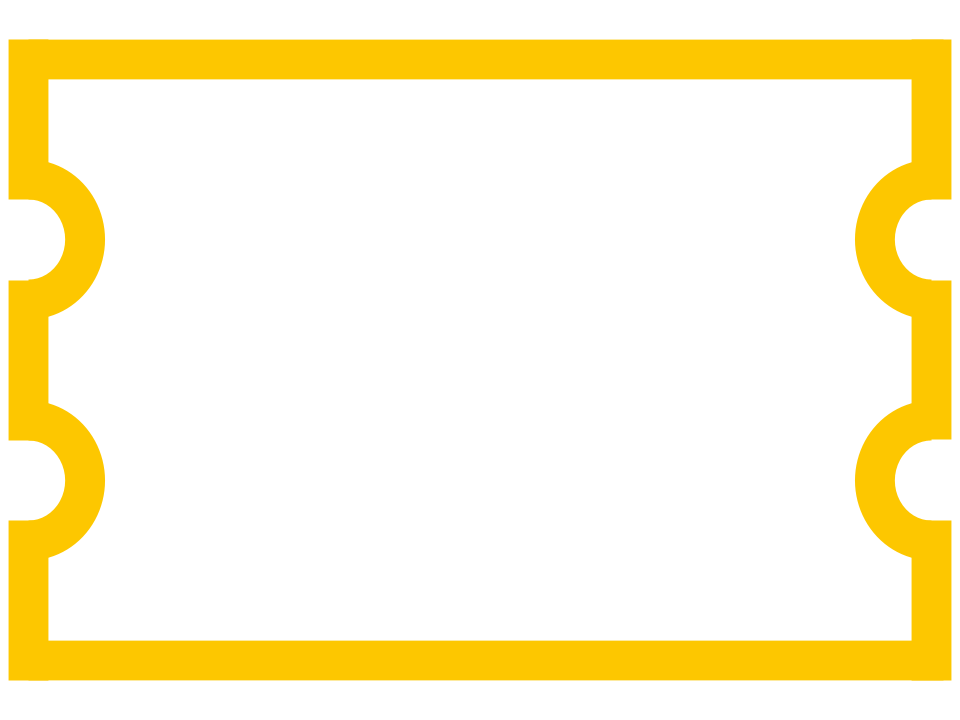
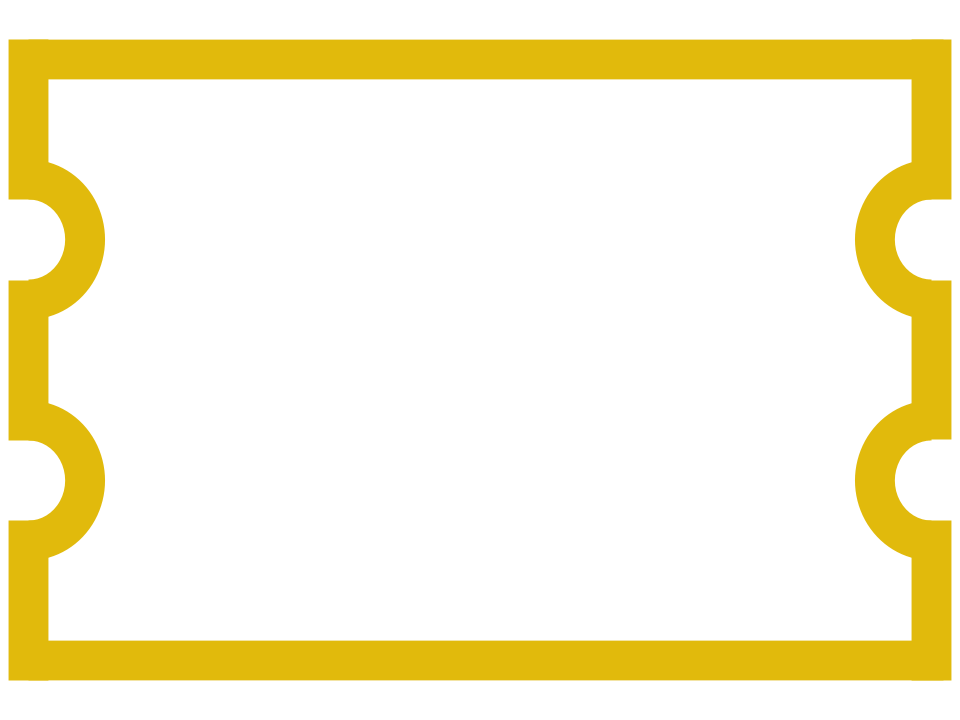
added image to front page

Changed region(s): [[0.0, 0.0306, 1.0, 0.9472]]

diff --git a/App/src/app/page.tsx b/App/src/app/page.tsx
@@ -1,41 +1,48 @@
 import Box from '@mui/material/Box';
 import Typography from '@mui/material/Typography';
 import Appbar from '../components/appbar'
+import Image from 'next/image'
 
 export default function Page() {
   return (
     <>
       <Appbar title='UCSC Grad Ticket Connector' />
-      <Box sx={{p: '20px'}}>
-        <Box sx={{border: '3px solid #e1ba0c', borderRadius: '4px', p: '10px', bgcolor: '#0b0931', width: '50%'}}>
-          <Typography variant='h2' sx={{color: '#e1ba0c', fontWeight: 'bold'}}>
-            Welcome to the UCSC Grad Ticket Connector!
-          </Typography>
+      <Box sx={{p: '20px', display: 'flex', gap: '20px'}}>
+        <Box sx={{width: '50%'}}>
+          <Box sx={{border: '3px solid #e1ba0c', borderRadius: '10px', p: '10px', bgcolor: '#0b0931'}}>
+            <Typography variant='h2' sx={{color: '#e1ba0c', fontWeight: 'bold'}}>
+              Welcome to the UCSC Grad Ticket Connector!
+            </Typography>
+          </Box>
+          <Box sx={{border: '3px solid #e1ba0c', borderRadius: '10px', p: '10px', mt: '20px', bgcolor: '#0b0931'}}>
+            <Typography variant='h5' sx={{color: '#e1ba0c', fontWeight: 'bold'}}>
+              This student built site has one simple goal: match people with extra UCSC graduation tickets with people who need extra UCSC graduation tickets.
+            </Typography>
+            <br/>
+            <Typography variant='h5' sx={{color: '#e1ba0c'}}>
+              Every year it is a struggle for students to find enough tickets for all their family and friends to come watch them at graduation.
+              This site connects people who need tickets with people who have them.
+            </Typography>
+          </Box>
+          <Box sx={{border: '3px solid #e1ba0c', borderRadius: '10px', p: '10px', mt: '20px', bgcolor: '#0b0931'}}>
+            <Typography variant='h5' sx={{color: '#e1ba0c'}}>
+              Click here to list your extra tickets!
+            </Typography>
+          </Box>
+          <Box sx={{border: '3px solid #e1ba0c', borderRadius: '10px', p: '10px', mt: '20px', bgcolor: '#0b0931'}}>
+            <Typography variant='h5' sx={{color: '#e1ba0c'}}>
+              Click here to browse, filter, and save tickets!
+            </Typography>
+          </Box>
+          <Box sx={{p: '10px'}}>
+            <Typography variant='body1' sx={{color: '#0b0931'}}>
+              Not affiliated with UCSC. Be wary of fake listings.
+            </Typography>
+          </Box>
         </Box>
-        <Box sx={{border: '3px solid #e1ba0c', borderRadius: '4px', p: '10px', mt: '20px', bgcolor: '#0b0931', width: '50%'}}>
-          <Typography variant='h5' sx={{color: '#e1ba0c', fontWeight: 'bold'}}>
-            This student built site has one simple goal: match people with extra UCSC graduation tickets with people who need extra UCSC graduation tickets.
-          </Typography>
-          <br/>
-          <Typography variant='h5' sx={{color: '#e1ba0c'}}>
-            Every year it is a struggle for students to find enough tickets for all their family and friends to come watch them at graduation.
-            This site connects people who need tickets with people who have them.            
-          </Typography>
-        </Box>
-        <Box sx={{border: '3px solid #e1ba0c', borderRadius: '4px', p: '10px', mt: '20px', bgcolor: '#0b0931', width: '50%'}}>
-          <Typography variant='h5' sx={{color: '#e1ba0c'}}>
-            Click here to list your extra tickets!
-          </Typography>
-        </Box>
-        <Box sx={{border: '3px solid #e1ba0c', borderRadius: '4px', p: '10px', mt: '20px', bgcolor: '#0b0931', width: '50%'}}>
-          <Typography variant='h5' sx={{color: '#e1ba0c'}}>
-            Click here to browse, filter, and save tickets!
-          </Typography>
-        </Box>
-        <Box sx={{p: '10px', width: '50%'}}>
-          <Typography variant='body1' sx={{color: '#0b0931'}}>
-            Not affiliated with UCSC. Be wary of fake listings.
-          </Typography>
+        <Box sx={{width: '50%', display: 'flex', alignItems: 'center', justifyContent: 'center'}}>
+          <Image src='/Two_Banana_Slugs.jpg' alt='Banana Slugs' width={600} height={400}
+            style={{borderRadius: '10px', width: '100%', height: 'auto', border: '3px solid #e1ba0c'}} />
         </Box>
       </Box>
     </>

diff --git a/App/src/components/appbar.tsx b/App/src/components/appbar.tsx
@@ -4,6 +4,7 @@ import Box from '@mui/material/Box';
 import Toolbar from '@mui/material/Toolbar';
 import Typography from '@mui/material/Typography';
 import DrawerButton from './drawerButton';
+// import Image from 'next/image';
 // import SignInOutButton from './SignInOutButton';
 
 
@@ -14,6 +15,8 @@ export default function Appbar({title}: {title: string}) {
         boxShadow: 'none', borderBottom: '1px solid #e1ba0c', zIndex: 2000}}>
         <Toolbar disableGutters>
           <DrawerButton />
+          {/* <Image src='/2-bump-ticket-filled.png' alt='logo' width={40} height={40}
+            style={{borderRadius: '4px', marginRight: '10px'}} /> */}
           <Typography variant="h5" component="div" sx={{flexGrow: 1,
             fontFamily: '"Lexend", sans-serif', fontWeight: 600,
             letterSpacing: '-0.01em', color: '#e1ba0c'}}>